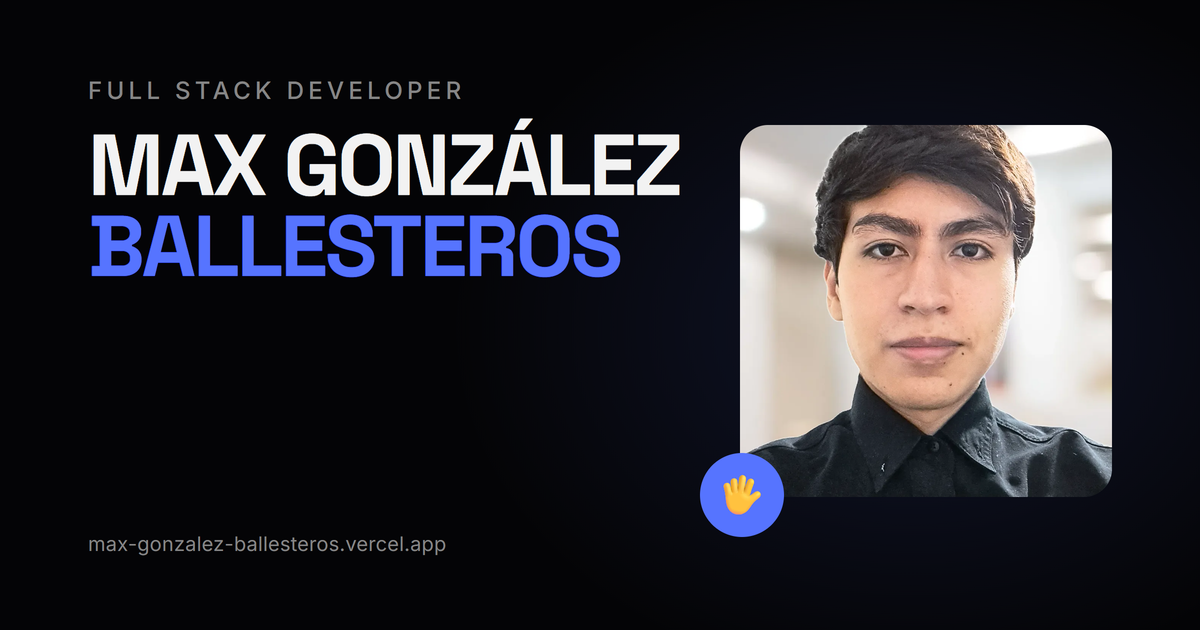
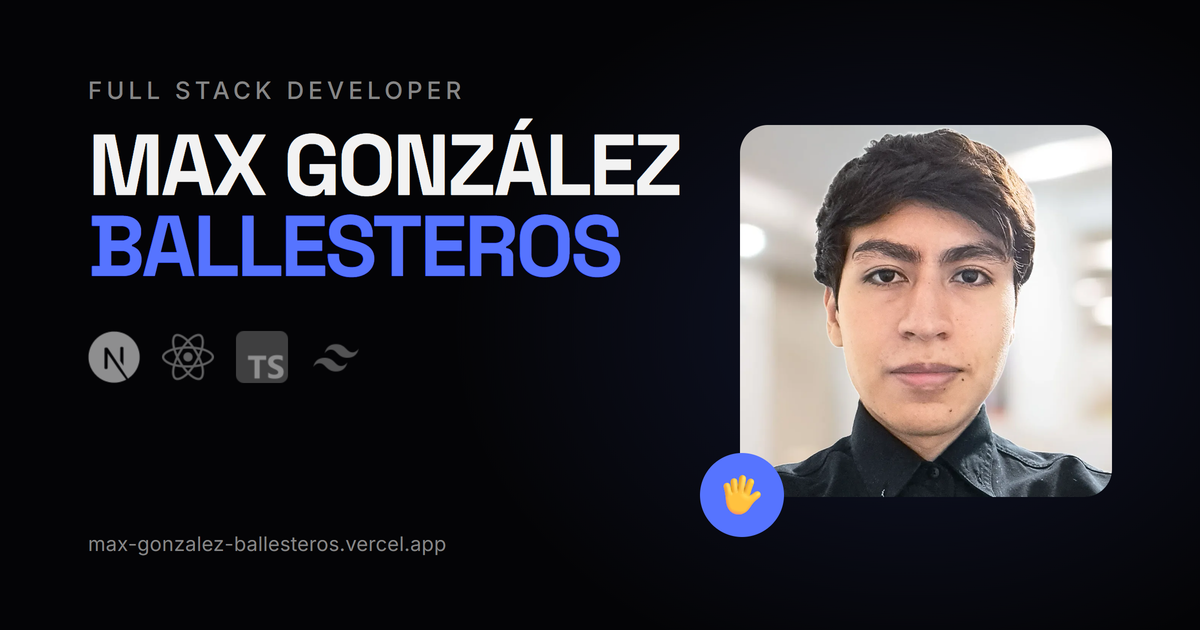
feat(identity): keep the whole head in the card and fill the gap with the stack
The portrait is 979x1411, so a square frame crops 31% of its height. Aligned
16% from the top it cut the crown; it now aligns to the top (object-position:
50% 0%) and the head enters complete.

The space under the name was empty. It now carries the hero's four stack
marks (Next.js, React, TypeScript, Tailwind) at 52px and 55% opacity: shapes
the site already uses, instead of a sentence that would be unreadable at the
300-500px the card is actually seen at.

Docs: none - the card's composition is not described in any live doc
Risk: none

Changed region(s): [[0.6167, 0.181, 0.925, 0.7841], [0.0617, 0.5127, 0.3083, 0.6333]]

diff --git a/odd/tasks/site-identity.md b/odd/tasks/site-identity.md
@@ -12,6 +12,10 @@ resultado y lo que se ve al compartir el link. No hay trabajo de posicionamiento
 |---|---|
 | T1 | `8f51116` |
 | T2-T4 | `7706a0a` |
+| Search Console | `b1cf44f` |
+| Rol "Full Stack Developer" (L6) | `7c8f652` |
+| T5 | `8441100` |
+| Ajuste de la tarjeta (foto y stack) | por el commit siguiente |
 
 ## Specs
 
@@ -41,7 +45,7 @@ resultado y lo que se ve al compartir el link. No hay trabajo de posicionamiento
 | T2 | Metadata, `metadataBase` y título de la home | S3, S5 | inline | `7706a0a` |
 | T3 | `robots.txt` y `sitemap.xml` desde `data/projects.ts` | S2 | inline | `7706a0a` |
 | T4 | JSON-LD `Person` + `WebSite` con `sameAs` | S2 | inline | `7706a0a` |
-| T5 | Tarjeta Open Graph y sus etiquetas | S4 | inline | commit 5 |
+| T5 | Tarjeta Open Graph y sus etiquetas | S4 | inline | `8441100` |
 | T6 | `docs/site-identity.md`, corrección del cierre de SEO y verificación de CI | S2, S6 | inline | commit 2 (docs) + cierre |
 
 T2, T3 y T4 comparten un commit: son una sola unidad de comportamiento (lo que
